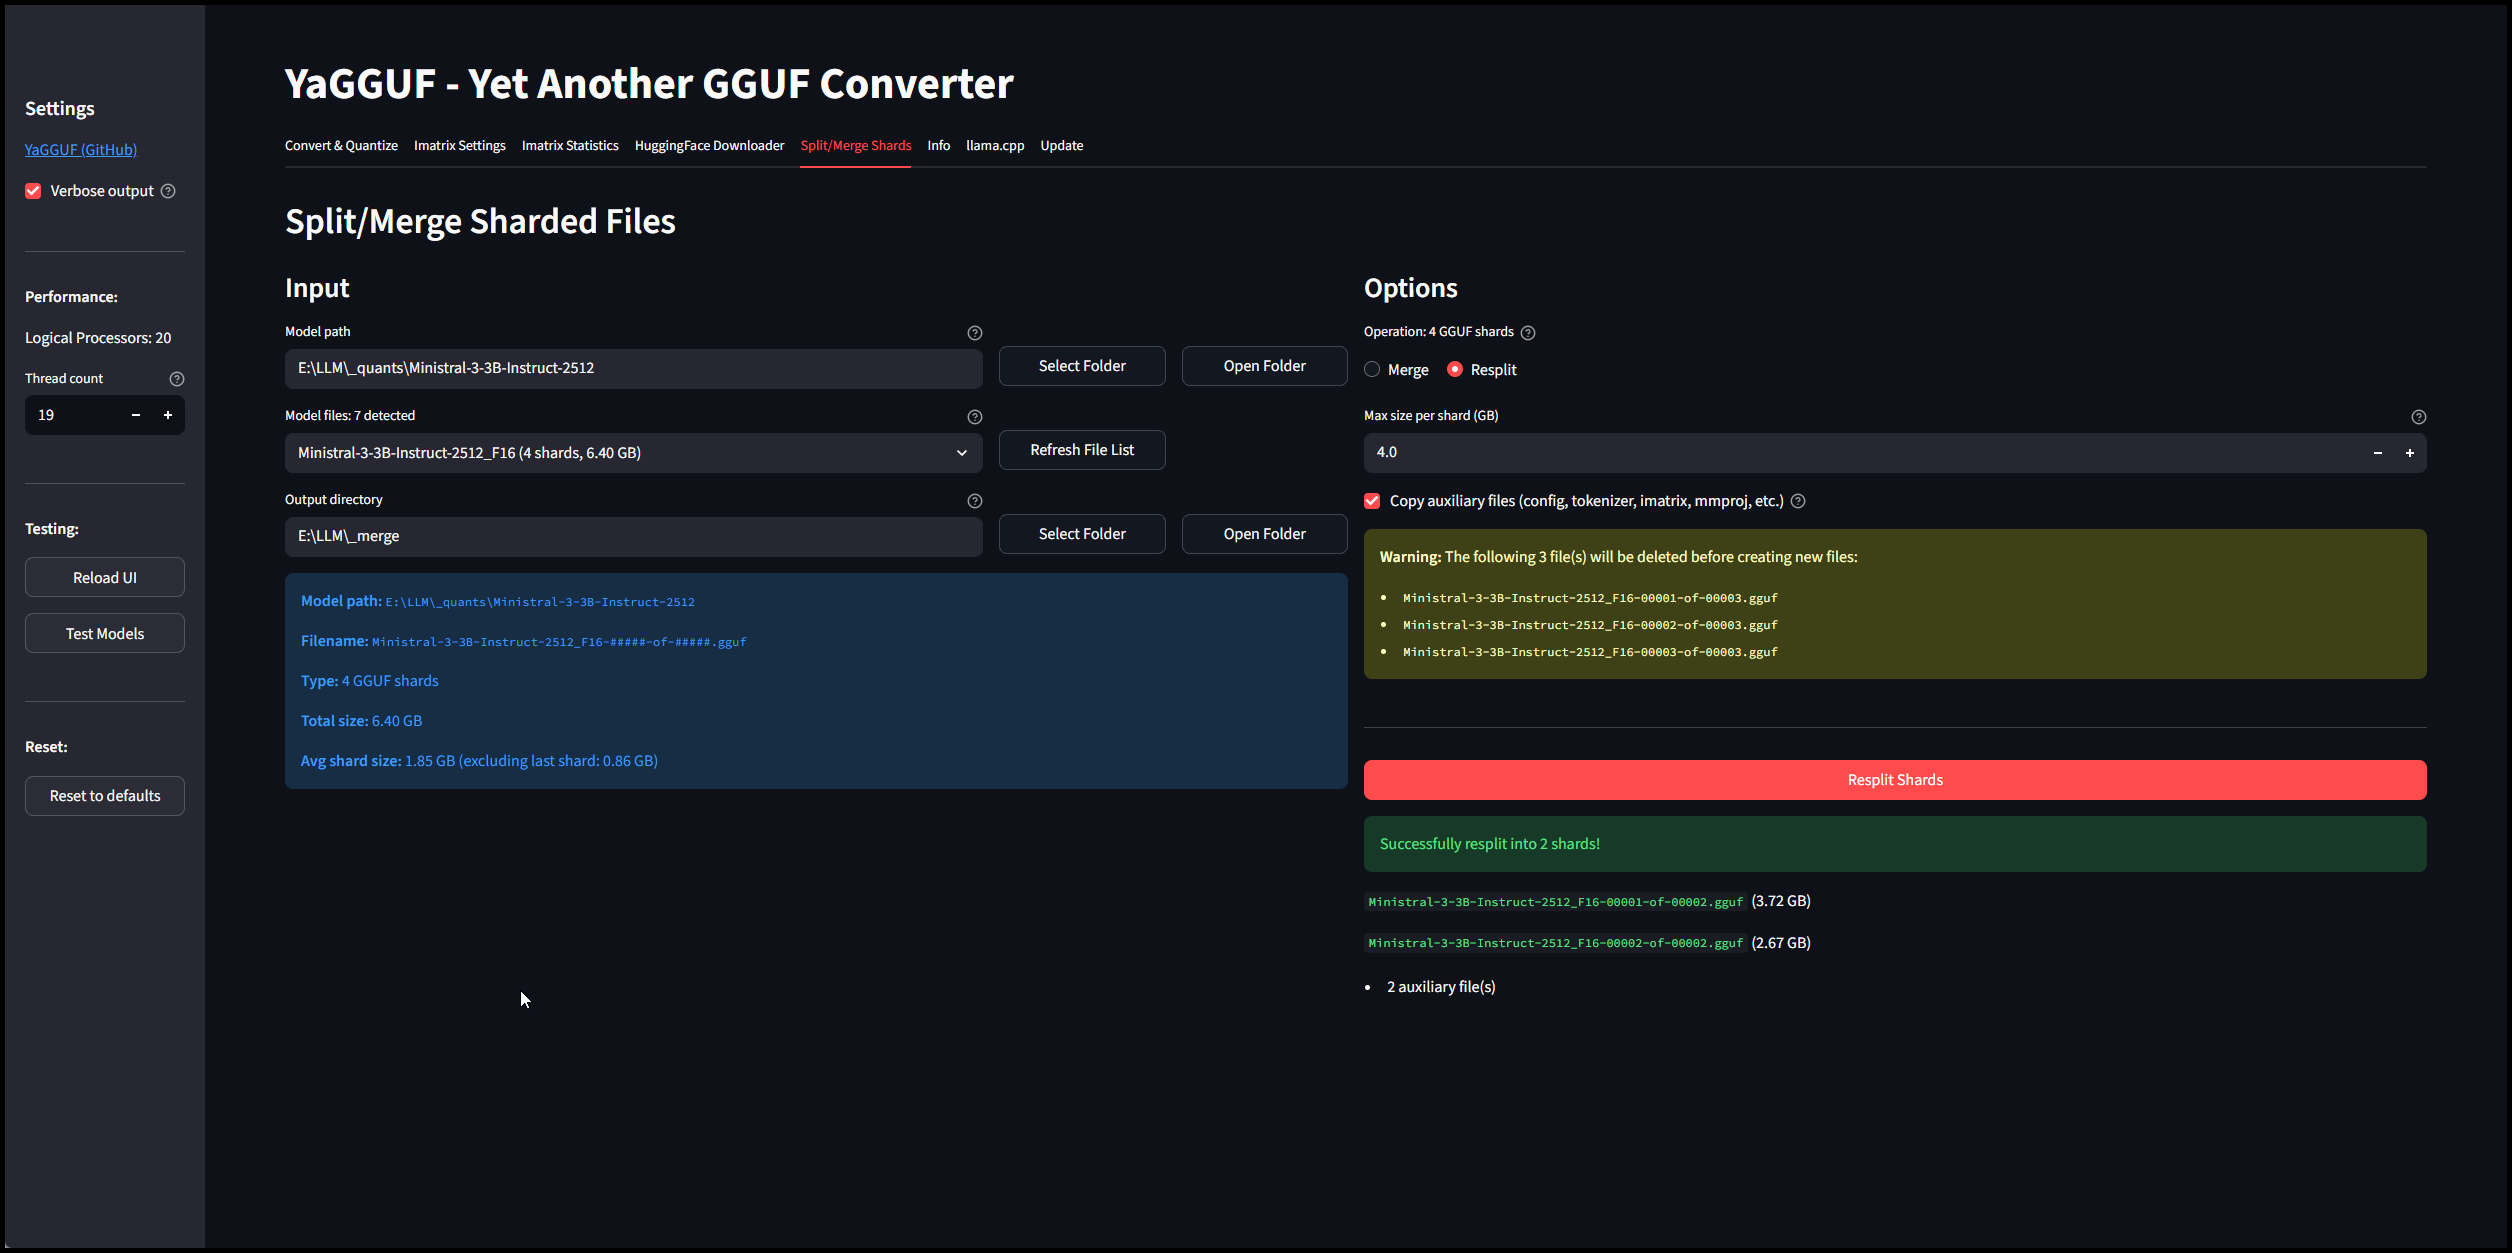
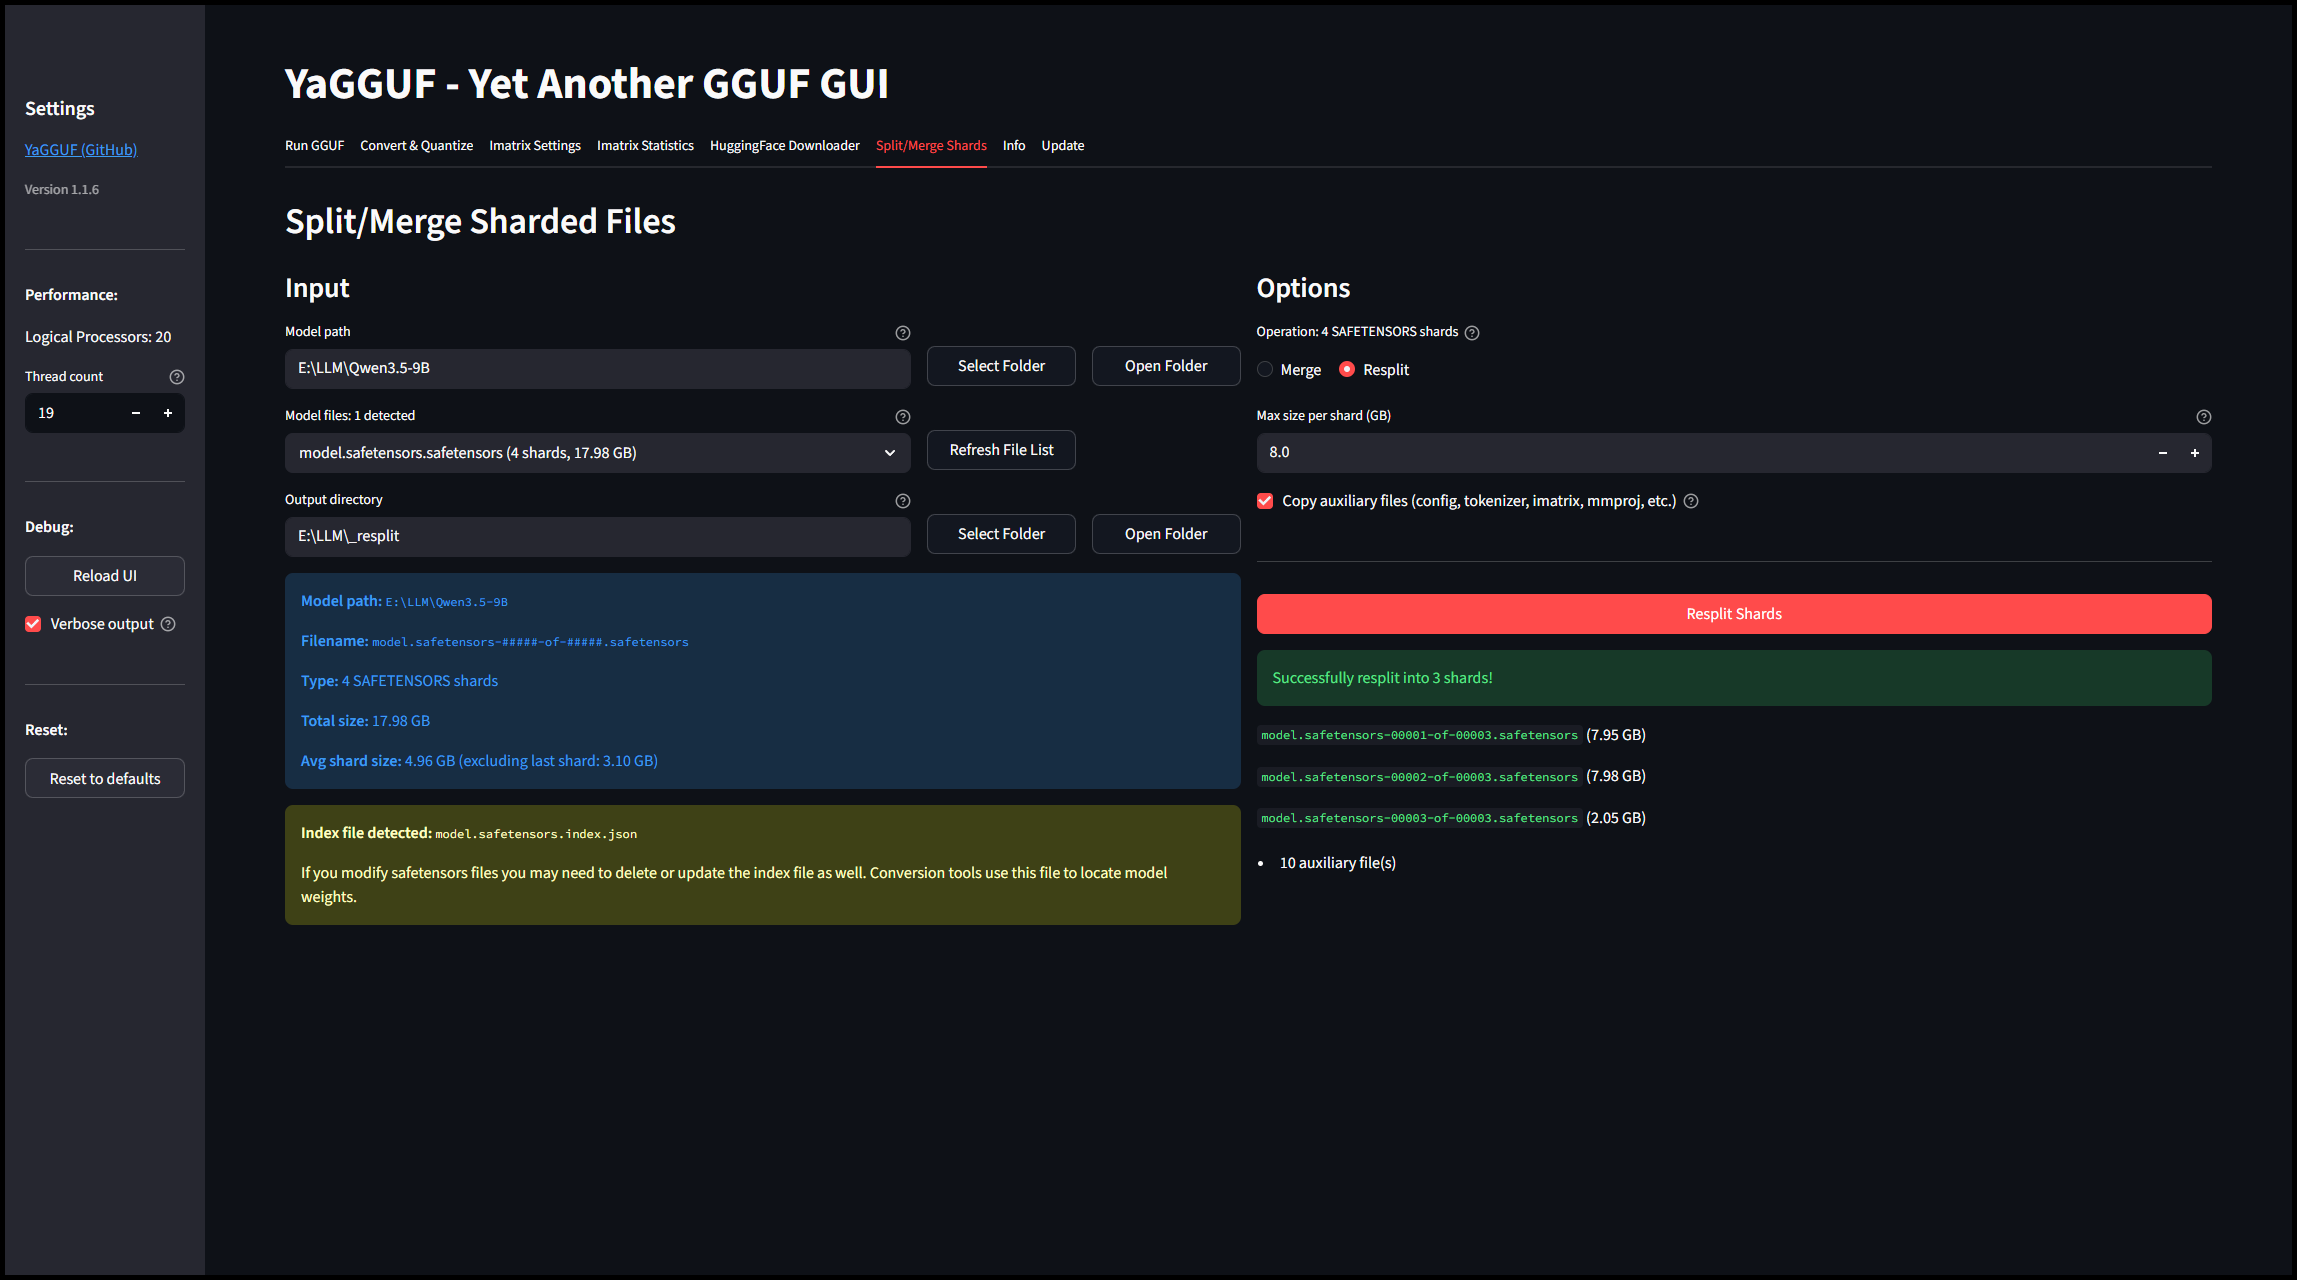
updated screenshots for name change, fixed resplitting safetensors

Changed region(s): [[0.0, 0.0, 0.9891, 0.996], [0.1236, 0.0311, 0.4636, 0.1245], [0.0, 0.4046, 0.0309, 0.4358]]

diff --git a/gguf_converter/gui_tabs/split_merge.py b/gguf_converter/gui_tabs/split_merge.py
@@ -858,10 +858,7 @@ def copy_auxiliary_files(input_dir: Path, output_dir: Path) -> List[Path]:
                 copied_files.append(dest_path)
 
     if copied_files:
-        print(f"{THEME['success']}Copied {len(copied_files)} auxiliary file(s){Style.RESET_ALL}")
-        for copied_file in copied_files:
-            print(f"{THEME['info']}  - {copied_file.name}{Style.RESET_ALL}")
-        print()  # Empty line after list
+        print(f"{THEME['success']}Copied {len(copied_files)} auxiliary file(s){Style.RESET_ALL}\n")
     else:
         print(f"{THEME['info']}No auxiliary files found to copy{Style.RESET_ALL}\n")
 
@@ -1089,7 +1086,7 @@ def merge_safetensors_shards(shard_files: List[Path], output_file: Path):
     print(f"{THEME['success']}Successfully merged: {output_file.name}{Style.RESET_ALL}\n")
 
 
-def split_safetensors_file(input_file: Path, output_dir: Path, max_shard_size_gb: float) -> List[Path]:
+def split_safetensors_file(input_file: Path, output_dir: Path, max_shard_size_gb: float, output_base_name: Optional[str] = None) -> List[Path]:
     """
     Split a safetensors file into shards.
 
@@ -1097,6 +1094,7 @@ def split_safetensors_file(input_file: Path, output_dir: Path, max_shard_size_gb
         input_file: Path to the safetensors file to split
         output_dir: Directory where split files will be saved
         max_shard_size_gb: Maximum size per shard in GB
+        output_base_name: Optional base name for output files (defaults to input file stem)
 
     Returns:
         List of created shard files
@@ -1150,7 +1148,7 @@ def split_safetensors_file(input_file: Path, output_dir: Path, max_shard_size_gb
         shards.append(current_shard)
 
     # Write shards
-    base_name = input_file.stem
+    base_name = output_base_name if output_base_name else input_file.stem
     output_files = []
 
     for i, shard_tensors in enumerate(shards, start=1):
@@ -1202,9 +1200,9 @@ def resplit_safetensors_shards(shard_files: List[Path], output_dir: Path, max_sh
                 print(f"{THEME['warning']}  - {shard.name}{Style.RESET_ALL}")
                 shard.unlink()
 
-        # Step 2: Split the merged file with new size
+        # Step 2: Split the merged file with new size (use original base name, not temp name)
         print(f"{THEME['info']}Step 2: Splitting with new shard size...{Style.RESET_ALL}")
-        output_files = split_safetensors_file(temp_merged_file, output_dir, max_shard_size_gb)
+        output_files = split_safetensors_file(temp_merged_file, output_dir, max_shard_size_gb, output_base_name=base_name)
 
         # Step 3: Clean up temp file
         print(f"{THEME['info']}Cleaning up temporary file...{Style.RESET_ALL}")
